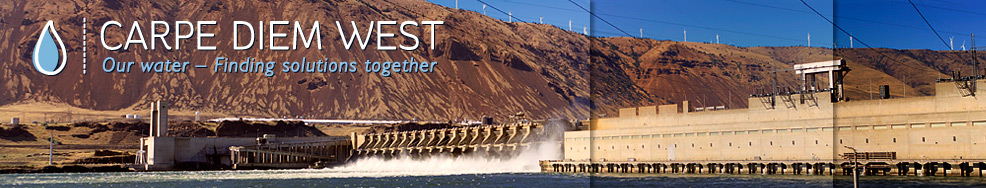
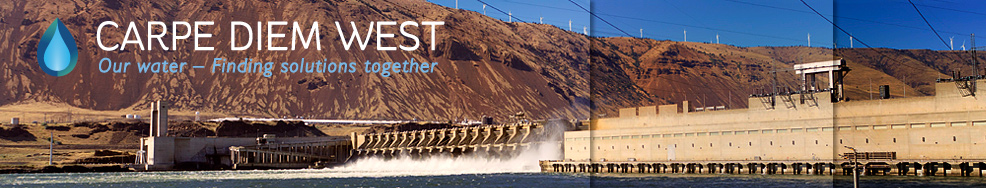
new header image

Changed region(s): [[0.0304, 0.1064, 0.4564, 0.4255]]

diff --git a/drupal/sites/all/themes/carpediem/js/cdw.js b/drupal/sites/all/themes/carpediem/js/cdw.js
@@ -1,37 +1,46 @@
 $(document).ready(
 		function () {
 		  if($('#edit-taxonomy-1').get(0)) {
+        switchHeaderPic($('#edit-taxonomy-1')[0][$('#edit-taxonomy-1').get(0).selectedIndex]);
 			  $('#edit-taxonomy-1').change(function() {
-			    switchHeaderPic(this.selectedIndex);
+			    switchHeaderPic($('#edit-taxonomy-1')[0][$('#edit-taxonomy-1').get(0).selectedIndex]);
 			  });
-			  switchHeaderPic($('#edit-taxonomy-1').get(0).selectedIndex);
 		  }
 		}
 	);
-function switchHeaderPic(sel) {
+function switchHeaderPic(item) {
 $('#sampleHeaderPic').remove();
-  switch(sel) {
-    case 2:
+switch(item.innerHTML) {
+    case "Blog":
+      img = "admin";
+      break;
+    case "Contact":
       img = "contact";
       break;
-    case 3:
+    case "Now":
       img = "now";
       break;
-    case 4:
+    case "The Network":
       img = "network";
       break;
-    case 5:
+    case "Reports":
       img = "reports";
       break;
-    case 6:
+    case "What We Do":
       img = "what-we-do";
       break;
-    case 7:
+    case "Who We Are":
       img = "who-we-are";
+      break;
+    case "Who We Are":
+      img = "who-we-are";
+      break;
+    case "New Visions":
+      img = "new-visions";
       break;
     default:
       img = "admin";
       break;
   }
-  $('#edit-taxonomy-1').after('<img id="sampleHeaderPic" width="328" height="62" align="middle" src="/sites/carpediemwest.org/files/headers/header_' + img + '.jpg">');
+  $('#edit-taxonomy-1').after('<img id="sampleHeaderPic" width="328" height="62" align="middle" src="/sites/all/themes/carpediem/images/headers/header_' + img + '.jpg">');
 }

diff --git a/drupal/sites/all/themes/carpediem/css/blocks.css b/drupal/sites/all/themes/carpediem/css/blocks.css
@@ -90,3 +90,7 @@
 
 #block-user-3 /* "Who's online" block for a list of the online users */ {
 }
+#block-block-17 p {
+  margin:0;
+  padding:0;
+}

diff --git a/drupal/sites/all/themes/carpediem/templates/page.tpl.php b/drupal/sites/all/themes/carpediem/templates/page.tpl.php
@@ -159,9 +159,12 @@ if(arg(0) == 'node' && is_numeric(arg(1))) {
   			case 4:
   				$categ1='reports';
   				break;
-  			case 12:
-  				$categ1='now';
-  				break;
+        case 12:
+          $categ1='now';
+          break;
+        case 13:
+          $categ1='new-visions';
+          break;
   			default:
   				$categ1='contact';
   		}
@@ -182,7 +185,7 @@ $categ = explode('/',$termp);
 $categ1 = $categ[1];
 $categ2 = $categ[2];
 	}
-if ($categ1 == 'who-we-are' ||$categ1 == 'what-we-do' || $categ1 == 'reports' || $categ1 == 'network' || $categ1 == 'now') {
+if ($categ1 == 'who-we-are' ||$categ1 == 'what-we-do' || $categ1 == 'reports' || $categ1 == 'network' || $categ1 == 'now' || $categ1 == 'new-visions') {
 	$categ = $categ1;
 	} else {
 	$categ = 'contact';
@@ -191,7 +194,7 @@ if ($categ1 == 'who-we-are' ||$categ1 == 'what-we-do' || $categ1 == 'reports' ||
 // add a conditional statement to check if the image file exists or not,
 // if it exists then it will load the image
 //	if (file_exists('/home/content/d/a/n/danlinn/html/sites/carpediemwest.org/files/headers/header_' . $categ . '.jpg')) {
-	 	print '<img src="/sites/carpediemwest.org/files/headers/header_' . $categ . '.jpg" alt="' . $categ . '"/>';
+	 	print '<img src="/sites/all/themes/carpediem/images/headers/header_' . $categ . '.jpg" alt="' . $categ . '"/>';
 //	 }
 ?>
 </div>
@@ -321,7 +324,7 @@ if ($categ1 == 'who-we-are' ||$categ1 == 'what-we-do' || $categ1 == 'reports' ||
       </div>
 </div>
 
- <div id="sidebar"><a href="/contact/whats-new"><img src="/sites/all/themes/carpediem/images/readthenews.gif" border="0" /></a>
+ <div id="sidebar">
      <div id="sideBarContent"> <?php print $sidebar_first; ?></div>
       </div>
 
